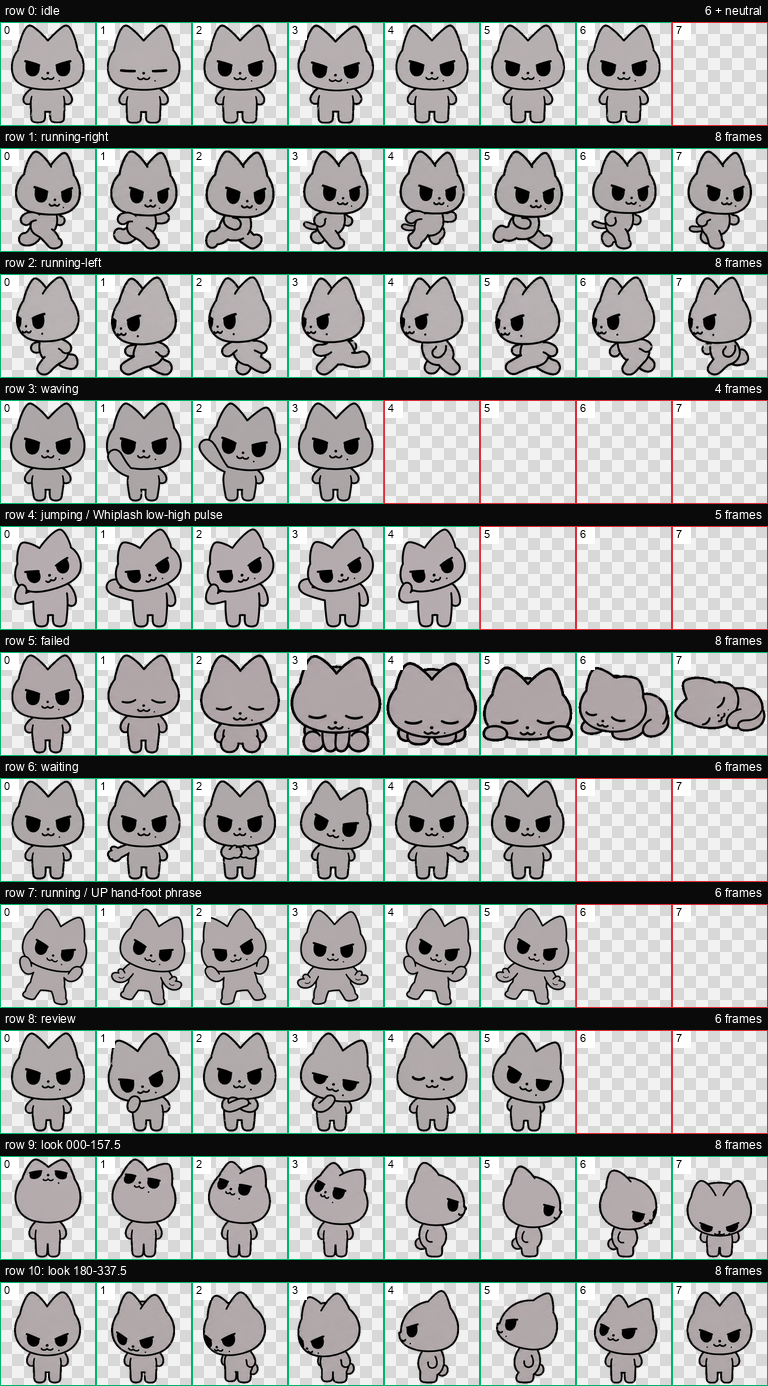
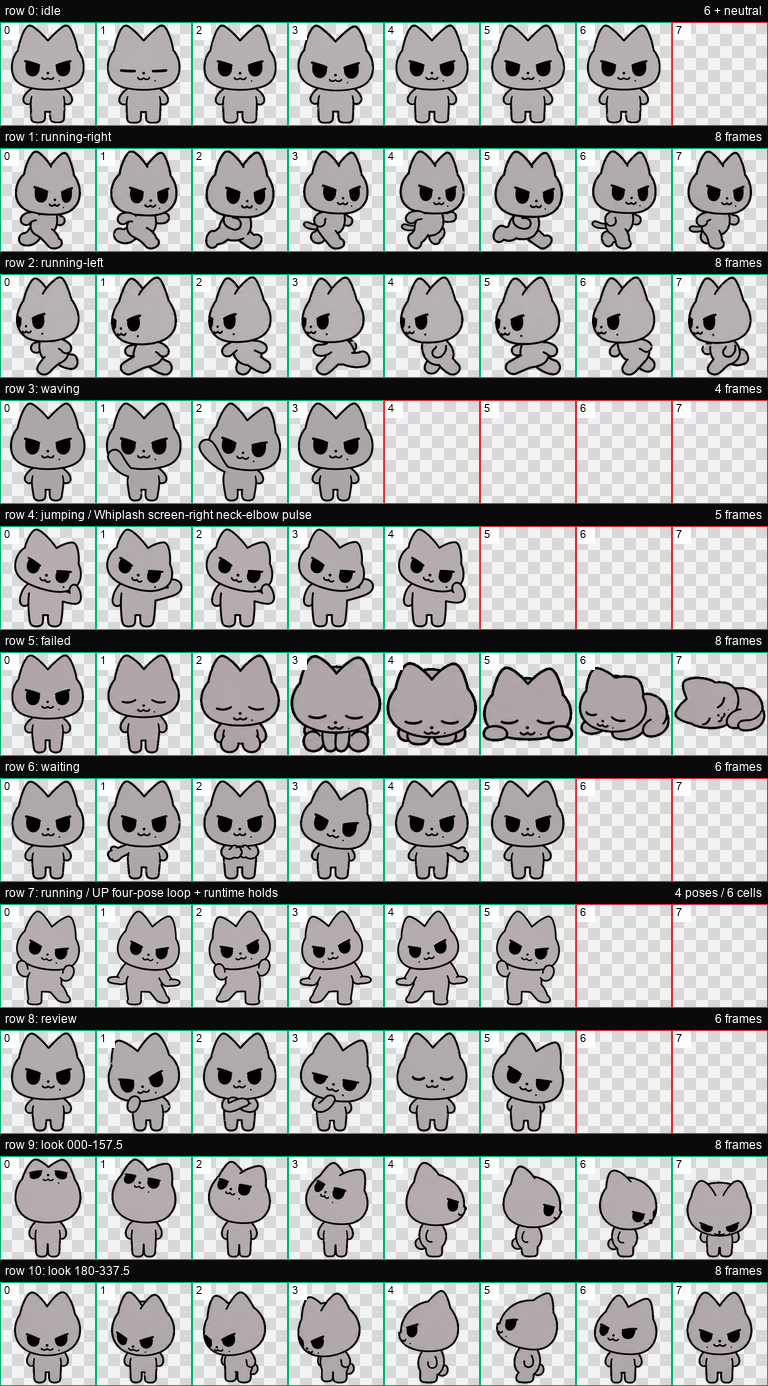
Correct Whiplash direction and tighten UP loop

diff --git a/README.md b/README.md
@@ -195,15 +195,15 @@ PowerShell 当前打开的不是正确文件夹。确认窗口所在目录中能
 - 粗黑描边与简洁灰黑色块，不使用毛绒、摄影或 3D 材质
 - 已通过结构、透明通道、色键残留与方向语义检查
 
-将鼠标悬停在宠物上时，`jumping` 状态会播放《Whiplash》“One look give 'em Whiplash”的五帧单侧抓颈抬肘动作。角色的头始终向自己的右侧歪，右手固定在右后颈，左手自然下垂；第 1、3、5 帧右肘在身前低位，第 2、4 帧右肘向外旋到高位，形成“低—高—低—高—低”的清楚循环。双脚保持固定站姿并自然落地，不换手、不播放镜像侧，也不添加进入或收尾动作。
+将鼠标悬停在宠物上时，`jumping` 状态会播放《Whiplash》“One look give 'em Whiplash”的五帧单侧抓颈抬肘动作。本文的左右均指最终画面的屏幕方向：角色的头始终向画面右侧歪，画面右侧的手固定在同侧后颈，主动肘也在画面右侧；画面左侧手臂自然下垂。第 1、3、5 帧主动肘在身前低位，第 2、4 帧向外旋到高位，形成“低—高—低—高—低”的清楚循环。右脸小痣仍固定在画面右侧。双脚保持固定站姿并自然落地，不换手、不播放另一侧镜像，也不添加进入或收尾动作。
 
 ![《Whiplash》五帧悬停动作预览](preview/whiplash-dance.gif)
 
-当 Codex 进入 `running`（任务正在运行）状态时，会播放《UP》“I pump it, I pump it, I pump it up”的六帧甩手与重心交替。第 1、2、5、6 帧由角色左脚落地支撑，右脚低低离地，身体稍向左倾；第 3、4 帧左右关系相反。第 1、3、5 帧双手向上甩、掌背朝外，第 2、4、6 帧双手向下甩、掌心朝外。游离脚只做贴近地面的微抬，不跳跃、不露脚底或肉垫，也不添加胸腹收手、脸侧手势等其他动作。
+当 Codex 进入 `running`（任务正在运行）状态时，会播放《UP》“I pump it, I pump it, I pump it up”的四个独立甩手姿势。第 1、2 姿势由画面左脚整脚支撑，画面右脚贴近地面微抬，身体与头稍向画面左侧倾；第 3、4 姿势左右关系相反。第 1、3 姿势双手向上甩、掌背朝外；第 2、4 姿势双手向斜下方甩并下压、手腕外旋，掌面朝向地面而不是镜头。游离脚不高抬，不露脚底或肉垫，也不添加胸腹收手、脸侧手势等其他动作。
 
-![《UP》六帧任务运行动作预览](preview/up-dance.gif)
+![《UP》四姿势任务运行动作预览](preview/up-dance.gif)
 
-> 当前 Codex Pet v2 运行时对这两行有固定上限：`jumping` 只读取前 5 格，`running` 只读取前 6 格。因此图集的其余格子保持透明，避免出现“画了更多帧，实际却不会播放”的情况。逐帧研究来源和压缩映射记录在 [`qa/choreography-references.md`](qa/choreography-references.md)。
+> 当前 Codex Pet v2 运行时对这两行使用固定格数：`jumping` 读取 5 格，`running` 读取 6 格，而且透明格也会被照常播放。UP 因此把四个独立姿势按 `A-B-C-D-D-A` 写入六格：第 5 格只停顿在 D，第 6 格只停顿在 A，不增加第五或第六种动作；循环时画面左倾与右倾各连续占三格。由于运行时把第 6 格固定为 220 ms，其时间仍无法做到严格四格等时。逐帧研究来源和运行时映射记录在 [`qa/choreography-references.md`](qa/choreography-references.md)。
 
 ![动作与方向总览](preview/contact-sheet.png)
 
@@ -217,7 +217,7 @@ preview/
   base-preview.png     标准站姿
   contact-sheet.png    动作与方向总览
   look-directions.png  16 方位复核图
-  up-dance.gif         六帧任务运行动作预览
+  up-dance.gif         四姿势、六运行时格的任务动作预览
   whiplash-dance.gif   五帧悬停动作预览
 qa/
   validation.json      自动结构验证报告
@@ -235,7 +235,7 @@ qa/
 
 ## English
 
-An unofficial Codex desktop pet based on the aespa Karina fan-created character “JUST Big Cat.” Hovering triggers a five-frame, one-sided “Whiplash” neck-grab pulse in a low-high-low-high-low loop. While a task is running, a six-frame “UP” hand-flick phrase alternates the supporting foot, slight body lean, and upward/downward paw orientation.
+An unofficial Codex desktop pet based on the aespa Karina fan-created character “JUST Big Cat.” Hovering triggers a five-frame, screen-right “Whiplash” neck-grab pulse in a low-high-low-high-low loop. While a task is running, four unique “UP” poses alternate the supporting foot, slight body lean, and upward/groundward paw orientation. The fixed six-cell runtime is padded with D and A hold copies rather than extra choreography.
 
 Download and extract the [project ZIP](https://github.com/Au-Cu/just-big-cat-codex-pet/archive/refs/heads/main.zip). On Windows, open PowerShell in the extracted folder and run:
 

diff --git a/qa/choreography-references.md b/qa/choreography-references.md
@@ -10,12 +10,12 @@
 - [M2 官方 Karina 直拍，约 00:39.00–00:41.08](https://www.youtube.com/watch?v=AFQaZjWBCb4&t=39s)
 - [aespa 官方 Karina 短片](https://www.youtube.com/watch?v=rQhi0viq-FU)
 
-逐帧核对后保留这段最稳定的识别点：角色右手贴住右侧偏后的颈部，头始终向同侧歪，左臂自然下垂；右手不离开颈部，节奏变化由右肘在身前低位和外旋高位之间完成。躯干只保留跟随右肩的轻微同侧弯，双脚固定落地。
+逐帧核对用于确认“头向抓颈手同侧歪、抓颈手不离开颈部、主动肘由低位到外旋高位”的关系。本版再以用户指定的最终成图方向为准：所有左右均按屏幕方向描述，头、抓颈手和主动肘统一位于画面右侧，画面左侧手臂自然下垂。躯干只保留跟随主动肩的轻微同侧弯，双脚固定落地；镜像动作后，身份特征小痣仍单独固定在画面右脸。
 
 当前运行时只读取 5 格，因此图集采用信息密度最高的压缩映射：
 
-1. 右手固定右后颈，头向角色右侧歪，右肘在身前低位。
-2. 右手不动，右肘向外旋到高位。
+1. 画面右侧手固定同侧后颈，头向画面右侧歪，主动肘在身前低位。
+2. 抓颈手不动，画面右侧主动肘向外旋到高位。
 3. 回到与第 1 帧相同的低位。
 4. 回到与第 2 帧相同的高位。
 5. 回到低位，使第 5 帧接第 1 帧时不产生额外动作。
@@ -30,16 +30,16 @@
 - [首尔 60fps 固定机位，约 00:30.85–00:33.35](https://www.youtube.com/watch?v=tH4ROgCUA50&t=30s)
 - [aespa 官方全身版 UP Challenge，重点核对约 00:04.18–00:05.10](https://www.youtube.com/watch?v=geGsr791U9c&t=4s)
 
-视频复核用于确认六拍的重心和脚部关系：身体向角色左侧倾时，角色左脚整脚支撑，右脚整只低低离地并稍向斜前伸；身体向角色右侧倾时左右关系相反。游离脚不是高抬腿，也不把脚底转向镜头。六帧精灵另按本轮动作要求强化掌面可读性：上甩使用掌背朝外的简化轮廓，下甩使用掌心朝外的简化轮廓，但不绘制肉垫。
+视频复核用于确认重心和脚部关系：身体向支撑脚同侧倾，另一只脚整只贴近地面微抬；游离脚不是高抬腿，也不把脚底转向镜头。最终方向仍以用户给出的屏幕方向和四姿势定义为准。官方 Challenge 的掌面角度会随镜头略有变化，本版不照搬该角度，而按用户要求强化掌面可读性：上甩使用掌背朝外的简化轮廓；下甩时前臂向斜下方打开、手腕下折并外旋，使掌面朝向地面，不绘制肉垫。
 
-当前运行时读取 6 格，映射为：
+四个独立姿势为：
 
-1. 左脚支撑、右脚微抬、身体向角色左侧倾，双手向上甩，掌背朝外。
-2. 保持相同脚和身体方向，双手向下甩，掌心朝外。
-3. 右脚支撑、左脚微抬、身体向角色右侧倾，双手向上甩，掌背朝外。
-4. 保持相同脚和身体方向，双手向下甩，掌心朝外。
-5. 回到第 1 帧的脚、身体和上甩手势。
-6. 回到第 2 帧的脚、身体和下甩手势。
+1. A：画面左脚支撑、画面右脚微抬、身体和头向画面左侧倾，双手向上甩，掌背朝外。
+2. B：保持相同脚和倾斜方向，双手向斜下方甩并下压、手腕外旋，掌面朝地。
+3. C：画面右脚支撑、画面左脚微抬、身体和头向画面右侧倾，双手向上甩，掌背朝外。
+4. D：保持相同脚和倾斜方向，双手向斜下方甩并下压、手腕外旋，掌面朝地。
+
+Codex 桌面版当前仍固定读取 `running` 的 6 格，且不会跳过透明格，因此不能只留四个非透明格。实际写入映射为 `A-B-C-D-D-A`：第 5 格是 D 的完全相同停顿副本，第 6 格是 A 的完全相同停顿副本。这样不添加新动作，也使循环中的画面左倾组与右倾组各连续占三格。运行时把最后一格固定显示 220 ms，其他格为 120 ms，因此素材层面只能平衡连续格数，无法把时间也改成严格等时的四格循环。
 
 未添加胸腹收手、腰肋肘撑、脸侧手势、抓颈、直臂横扫、跳跃、深蹲、踢腿或额外过渡动作。
 
@@ -48,6 +48,6 @@
 2026-08-01 在 Codex 桌面版 `26.727.6591.0` 中核对到的 Pet v2 读取上限为：
 
 - `jumping`：5 格，单格时长为 `140, 140, 140, 140, 280 ms`。
-- `running`：6 格，单格时长为 `120, 120, 120, 120, 120, 220 ms`。
+- `running`：固定 6 格，单格时长为 `120, 120, 120, 120, 120, 220 ms`；本版只有 4 个独立姿势，另两格是停顿副本。
 
 应用会在回到待机前重复状态行。图集中超出上限的格子故意保持透明。
